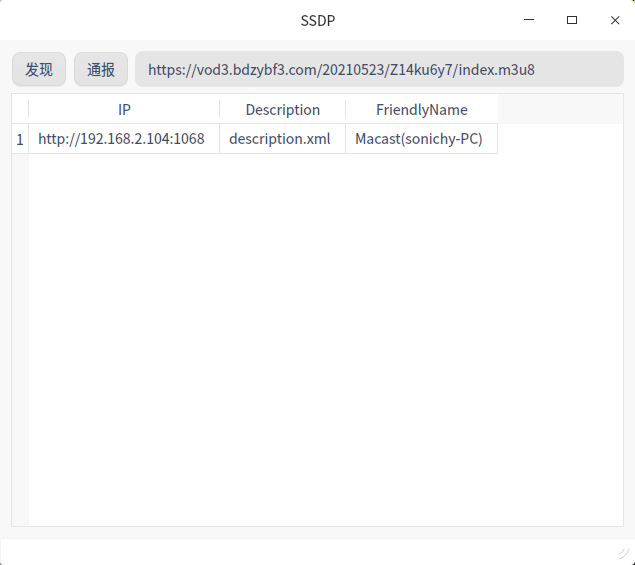
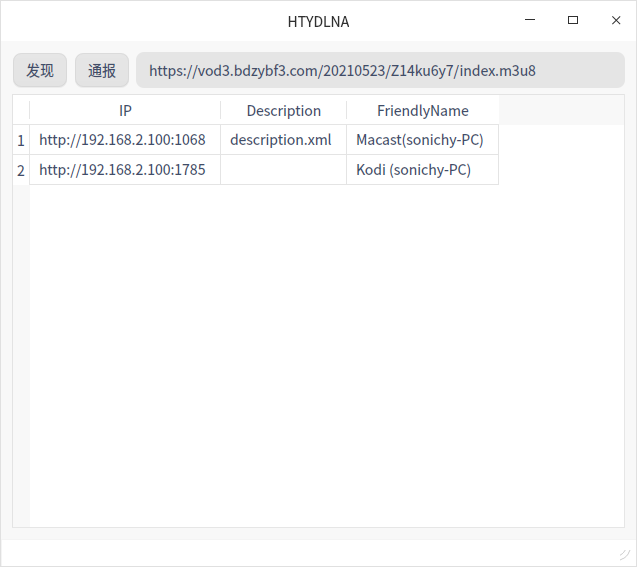
Discover Kodi but can not play

diff --git a/mainwindow.cpp b/mainwindow.cpp
@@ -2,6 +2,8 @@
 
 // https://github.com/sYCH3L/TwitchTVDLNAPlayer
 
+// https://breezetemple.github.io/2019/03/01/dlna-and-upnp-protocol/
+
 #include "mainwindow.h"
 #include "ui_mainwindow.h"
 
@@ -17,9 +19,10 @@ MainWindow::MainWindow(QWidget *parent) :
 
     groupAddress = QHostAddress("239.255.255.250");
     socket = new QUdpSocket(this);
-    auto ok = socket->bind(QHostAddress::AnyIPv4, 2068, QUdpSocket::ShareAddress);
+    auto ok = socket->bind(QHostAddress::AnyIPv4, 8081, QUdpSocket::ShareAddress);
     connect(socket, SIGNAL(readyRead()), this, SLOT(readMsg()));
     if (!ok) {
+        ui->statusBar->showMessage("Bind failed!");
         return;
     }
 
@@ -73,7 +76,7 @@ void MainWindow::on_pushButton_discover_clicked()
                   //"ST: ssdp:all\r\n"
                   //"ST: upnp:rootdevice\r\n"
                   "ST: urn:schemas-upnp-org:service:AVTransport:1\r\n"  //投屏
-                  "Man: \"ssdp:discover\"\r\n"
+                  "MAN: \"ssdp:discover\"\r\n"
                   "MX: 3\r\n"
                   "\r\n");
 
@@ -87,34 +90,28 @@ void MainWindow::on_pushButton_notify_clicked()
 {
     c = 0;
     intent = 1;
-/*
-    QString s = QString("NOTIFY * HTTP/1.1\r\n"
-                        "HOST: 239.255.255.250:1900\r\n"
-                        "ST: upnp:rootdevice\r\n"   //根设备
-                        "NTS: ssdp:alive\r\n"
-                        "LOCATION: %1:8000/description.xml\r\n"
-                        "USN: uuid:1234567890-abcdefg-hijklmn-opqrst-uvwxyz::upnp:rootdevice\r\n"
-                        "CACHE-CONTROL: max-age=300\r\n"
-                        "SERVER: %2 UPnP/1.0 %3/%4\r\n"
-                        "\r\n").arg(IP).arg(hostName).arg(qApp->applicationName()).arg(qApp->applicationVersion());
-    //qDebug() << s;
-    auto writeOk = socket->writeDatagram(s.toUtf8().data(), groupAddress, 1900);
-    if (writeOk == -1) {
-        qDebug() << "Writing Datagram failed";
-    }
-*/
-
     QString s = QString("NOTIFY * HTTP/1.1\r\n"
                 "HOST: 239.255.255.250:1900\r\n"
-                "ST: urn:schemas-upnp-org:service:AVTransport:1\r\n"
+                "NT: upnp:rootdevice\r\n"
                 "NTS: ssdp:alive\r\n"
-                "LOCATION: %1:8000/description.xml\r\n"
-                "USN: uuid:8fa440b3-f312-4415-8640-f790a3845fcf::urn:schemas-upnp-org:service:AVTransport:1\r\n"
+                "LOCATION: %1:8080/description.xml\r\n"
+                "USN: uuid:8fa440b3-f312-4415-8640-f790a3845fc1::upnp:rootdevice\r\n"
+                "CACHE-CONTROL: max-age=300\r\n"
+                "SERVER: %2 UPnP/1.0 %3/%4\r\n"
+                "\r\n").arg(IP).arg(hostName).arg(qApp->applicationName()).arg(qApp->applicationVersion());
+    auto writeOk = socket->writeDatagram(s.toUtf8().data(), groupAddress, 1900);
+
+    s = QString("NOTIFY * HTTP/1.1\r\n"
+                "HOST: 239.255.255.250:1900\r\n"
+                "NT: urn:schemas-upnp-org:service:AVTransport:1\r\n"
+                "NTS: ssdp:alive\r\n"
+                "LOCATION: %1:8080/description.xml\r\n"
+                "USN: uuid:8fa440b3-f312-4415-8640-f790a3845fc1::urn:schemas-upnp-org:service:AVTransport:1\r\n"
                 "CACHE-CONTROL: max-age=300\r\n"
                 "SERVER: %2 UPnP/1.0 %3/%4\r\n"
                 "\r\n").arg(IP).arg(hostName).arg(qApp->applicationName()).arg(qApp->applicationVersion());
     qDebug() << s;
-    auto writeOk = socket->writeDatagram(s.toUtf8().data(), groupAddress, 1900);
+    writeOk = socket->writeDatagram(s.toUtf8().data(), groupAddress, 1900);
     if (writeOk == -1) {
         qDebug() << "Writing Datagram failed";
     }
@@ -148,8 +145,7 @@ void MainWindow::tableWidget_contextMenu(const QPoint &point)
         if (result_action == action_copy) {
             QClipboard *clipboard = QApplication::clipboard();
             clipboard->setText(ui->tableWidget->item(row,0)->text() + "/" + ui->tableWidget->item(row,1)->text());         
-        } else if (result_action == action_play) {
-            //Macast可以，乐播不行
+        } else if (result_action == action_play) {            
             QString controlURL="";
             QList<QMap<QString,QString>> list_service = list_client.at(row)->list_service;
             for (int i=0; i<list_service.length(); i++) {
@@ -160,7 +156,17 @@ void MainWindow::tableWidget_contextMenu(const QPoint &point)
                     break;
                 }
             }
-            qDebug() << list_client.at(row)->UploadFileToPlay(controlURL, ui->lineEdit->text());
+            QString s = list_client.at(row)->UploadFileToPlay(controlURL, ui->lineEdit->text());
+            qDebug() << s;
+            QFile file;
+            if (controlURL == "")
+                file.setFileName("controlURL.xml");
+            else
+                file.setFileName(QFileInfo(controlURL).fileName());
+            if (file.open(QFile::WriteOnly)) {
+                file.write(s.toUtf8());
+                file.close();
+            }
         }
     }
 }

diff --git a/dlnaclient.cpp b/dlnaclient.cpp
@@ -7,24 +7,28 @@ DLNAClient::DLNAClient(QString s)
     QStringList SL = s.split("\r\n");
 
     foreach (QString s, SL) {
-        if (s.contains("LOCATION:")) {
-            QString surl = s.remove("LOCATION:").trimmed();
+        if (s.contains("LOCATION:", Qt::CaseInsensitive)) {
+            QString surl = s.remove("LOCATION:", Qt::CaseInsensitive).trimmed();
             qDebug() << surl;
             scheme = surl.left(surl.indexOf("://") + 3);
             //qDebug() << scheme;
             QString s0 = surl.mid(s.indexOf("://") + 2);
             qDebug() << s0;
-            QRegularExpression RE("([^:]*):([^/]*)/(.*)");
-            QRegularExpressionMatch REM = RE.match(s0);
-            IP = REM.captured(1);
-            port = REM.captured(2);
-            description = REM.captured(3);
-//                    IP = location.left(location.indexOf(":"));
-//                    port = location.mid(location.indexOf(":") + 1, location.indexOf("/") - location.indexOf(":") - 1);
-//                    description = location.right(location.length() - location.indexOf("/") - 1);
+//            QRegularExpression RE("([^:]*):([^/]*)/(.*)");
+//            QRegularExpressionMatch REM = RE.match(s0);
+//            IP = REM.captured(1);
+//            port = REM.captured(2);
+//            description = REM.captured(3);
+            IP = s0.left(s0.indexOf(":"));
+            port = s0.mid(s0.indexOf(":") + 1, s0.indexOf("/") - s0.indexOf(":") - 1);
+            description = s0.right(s0.length() - s0.indexOf("/") - 1);
             qDebug() << IP << port << description;
             QByteArray BA = getReply(surl);
-            QFile file(QFileInfo(surl).fileName());
+            QFile file;
+            if (description == "")
+                file.setFileName("description.xml");
+            else
+                file.setFileName(description);
             if (file.open(QFile::WriteOnly)) {
                 file.write(BA);
                 file.close();
@@ -102,18 +106,22 @@ QString DLNAClient::Desc()
 }
 
 QString DLNAClient::UploadFileToPlay(QString ControlURL, QString UrlToPlay)
-{
+{    
+    qDebug() << UrlToPlay;
     QString XML = "<?xml version=\"1.0\"?>\n"
                   "<SOAP-ENV:Envelope xmlns:SOAP-ENV=\"http://schemas.xmlsoap.org/soap/envelope/\" SOAP-ENV:encodingStyle=\"http://schemas.xmlsoap.org/soap/encoding/\">\n"
                   "<SOAP-ENV:Body>\n"
                   "<u:SetAVTransportURI xmlns:u=\"urn:schemas-upnp-org:service:AVTransport:1\">\n"
                   "<InstanceID>0</InstanceID>\n";
-    XML += "<CurrentURI>" + UrlToPlay.replace(" ", "%20") + "</CurrentURI>\n";
-    XML += "<CurrentURIMetaData></CurrentURIMetaData>\n";//" + Desc() + "
+    XML += "<CurrentURI>" + UrlToPlay + "</CurrentURI>\n";
+    XML += "<CurrentURIMetaData>" + Desc() + "</CurrentURIMetaData>\n";
     XML += "</u:SetAVTransportURI>\n";
     XML += "</SOAP-ENV:Body>\n"
            "</SOAP-ENV:Envelope>\n";
-    QString surl = scheme + IP + ":" + port + "/" + ControlURL;
+    QString surl = scheme + IP + ":" + port;
+    if (!ControlURL.startsWith("/"))
+        surl += "/";
+    surl += ControlURL;
     qDebug() << surl;
     return postReply(surl, XML);
 }

diff --git a/main.cpp b/main.cpp
@@ -6,7 +6,7 @@ int main(int argc, char *argv[])
     qSetMessagePattern("[ %{file}: %{line} ] %{message}");
     QApplication a(argc, argv);
     a.setApplicationName("HTYSSDP");
-    a.setApplicationVersion("1.0");
+    a.setApplicationVersion("0.1");
     MainWindow w;
     w.show();
     return a.exec();

diff --git a/README.md b/README.md
@@ -3,10 +3,17 @@ A mini DLNA sender, can not receive yet.
 ![alt](preview.png)
 
 ## Test
-| Soft | Pass |
-|:----:|:----:|
-| [Macast](https://github.com/xfangfang/Macast) |✓ |
-|[乐播](https://www.lebo.cn)|X|
+| Soft | Pass | Status |
+|:----:|:----:|:----:|
+| [Macast](https://github.com/xfangfang/Macast) | ✓ | Fast |
+| [乐播](https://www.lebo.cn) | X | SDK |
+| Kodi | X | Occasionally|
+
+## Debug Tool
+sudo ngrep port xxxx
+
+## Local Server
+python3 -m http.server
 
 ## Reference
 https://blog.csdn.net/sinat_33859977/article/details/113567847  
